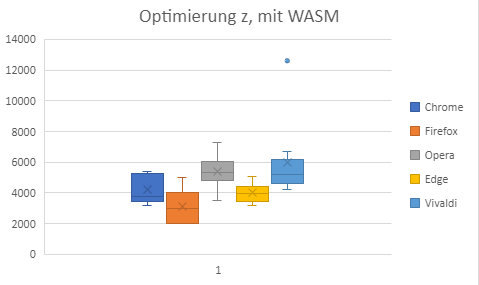
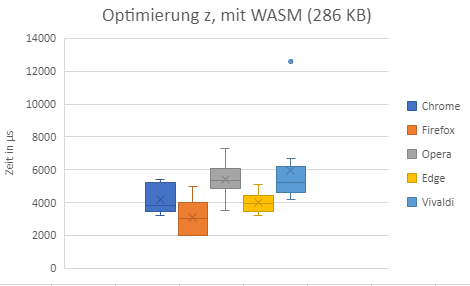
Edited documentation

diff --git a/praktikum/luecking/index.md b/praktikum/luecking/index.md
@@ -48,6 +48,22 @@ werden.
 
 ### Emscipten
 
+Emscripten ist eine komplette Compilertoolchain hin zu WebAssebly. Emscripten verwendet dabei LLVM und 
+setzt den Fokus auf Geschwindigkeit, Groesse und der Webplatform. In C++ programmierter Code kann
+beispielsweise mit Hilfe von Emscripten uebersetzt werden und passende HTML-, JavaScript- und WASM-Dateien
+generiert werden. Emscripten liefert dabei beispielsweise die Moeglichkeit innerhalb vom C++-Code
+JavaScript-Funktionen und -Code zu definieren und aufzurufen.
+
+Emscripten bietet zur Kompilierung verschiedne Optimierungsstufen an. Im Folgenden werden die 
+Optimierungen kurz verdeutlicht.
+
+* O0 - Keine Optimierung (default)
+* O1 - Simple Optimierung. Waehrend des Kompilierens wird die 'O1' von LLVM verwendet. Waehrend des Linkens werden verschiedene JS-Assertions nicht eingeschlossen, welche bei O0 existieren wuerden.
+* O2 - Aehnlich wie 'O1', ermoeglicht aber weitere Optimierungen. Waehrend des Linkens werden ebenfalls verschiedene JavaScript Optimierungen ermoeglicht.
+* O3 - Aehnlich wie 'O3', aber mit zusaetzlichen Optimierungen, welche eventuell laenger zum Ausfuehren benoetigen.
+* Os - Aehnlich wie '03', aber konzentriert sich mehr auf die Codegroesse. Dies kann die Laufzeit beeintraechtigen, sowohl von WASM als auch von JavaScript.
+* Oz - Aehnlich wie 'Os', aber reduziert die Codegroesse noch weiter. Kann jedoch laengere Ausfuehrzeiten haben, sowohl von WASM als auch von JavaScript.
+
 ## Forschungsfragen und Beschreibung Projekt
 
 Im Rahmen der Forschungsarbeit sollen folgende Forschungsfragen beantwortet werden.
@@ -138,34 +154,118 @@ Es wird sich mit dem Websever verbunden und die kompilierte HTML-Datei geoeffnet
 aufgeschrieben und die Seite mehrfach neu geladen. Nachdem alle Browser auf der gleichen Version getestet
 wurden, wird eine neue Version (mit Optimierung) gebaut und alle Browser erneut getestet.
 
+Bei der Zeitmessung sind im Hintergrund die gleichen Programme geoeffnet (Visual Studio Code, Notepad++,
+etc.), um moegliche Zeitabweichungen konstant zu halten. Zusaetzlich ist immer nur der zu messende Browser
+mit einem Tab geoeffnet, um Vergleichbarkeit in den Messergebnissen zu gewaehrleisten.
+
 ## Ergebnisse
 
 Im Folgenden werden die gemessenen Ergebnisse dargestellt und erlaeutert.
 
-![](assets/O0.PNG)
+![Keine Optimierung (O0)](assets/O0.PNG)
 
-![](assets/O1.PNG)
+Bei der Uebersetzung ohne Optimierung laesst sich eindeutig erkennen, dass die gemessene Zeit von
+Firefox am geringsten ist. Dabei muss erwaehnt werden, dass Firefox als einziger Browser nur Zeiten
+mit Millisekunden-Genauigkeit ausgegeben hat. Alle anderen Browser waren bei gleicher Codebasis in 
+der Lage, mindestens in zehntel Millisekunden- bzw. in 100 µs Schritten anzugeben, wie lange die Ausfuerung
+gedauert hat. Chrome ist mit einer relativ konstanten Ausfuehrungsdauer der zweitschnellste Browswer bei
+der Ausfuehrung. Die restlichen drei Browser verhielten sich vergleichsweise schnell, Vivaldi hingegen
+benoetigte bei einer Ausfuehrung ca. 8,5 ms, was als Ausrutscher gewertet wird.
 
-![](assets/O2.PNG)
+![Optimierung O1](assets/O1.PNG)
 
-![](assets/O3.PNG)
+Bei der Version, die mit O1 optimiert wurde, lassen sich Unterschiede in den Ausfuehrungszeiten 
+feststellen. Die Ausfuehrungszeit mit Chrome verbessert sich, wobei die Ausfuehrungszeit mit Firefox
+sich marginal verbessert. Die Ausfuehrzeit mit Opera variiert staerker, bleibt im Durchschnitt gleich.
+Bei Edge verbessert sich der Durchschnitt, die Ausfuehrungszeit weist jedoch eine groessere Varianz auf.
+Die Ausfuehrzeit mit Vivaldi verschlechtert sich bei der ersten Optimierung. Es werden Zeiten von bis zu
+9500 µs erreicht.
 
-![](assets/Os.PNG)
+![Optimierung O2](assets/O2.PNG)
 
-![](assets/Oz.PNG)
+Bei Optimierung O2 vergroessert sich die Varianz bei der Ausfuehrung mit Chrome. Bei den weiteren
+Browsern ist keine starke Verbesserung oder Verschlechterung festzustellen. Firefox fuehrt das gegebene
+Programm weiterhin als schnellster Browser aus.
 
-![](assets/chrome.PNG)
+![Optimierung O3](assets/O3.PNG)
 
-![](assets/firefox.PNG)
+Zwischen Optimierung O3 und O2 ist kein deutlicher Unterschied in der Ausfuehrdauer festzustellen.
+Grundsaetzlich laesst sich sagen, dass alle Browser im Durchschnitt minimal langsamer geworden sind.
+Firefox ist weiterhin der schnellste Browser, gefolgt von Chrome. Vivaldi stellt aus der Auswahl an
+Browsern den Langsamsten in diesem Szenario dar.
 
-![](assets/opera.PNG)
+![Optimierung Os](assets/Os.PNG)
 
-![](assets/edge.PNG)
+Bei der Optimierung Os laesst sich feststellen, dass alle Browser langsamere Ausfuehrzeiten besitzen.
+Die Rangfolge bleibt jedoch gleich.
 
-![](assets/vivaldi.PNG)
+![Optimierung Oz](assets/Oz.PNG)
+
+Die letzte Optimierungsstufe Oz erhoeht bei allen Browsern die Ausfuehrzeit des Progamms. Vivaldi faellt
+am meisten auf mit einem Ausrutscher bei ueber 12 ms.
+
+Im Folgenden werden die Ausfuehrzeiten von jedem Browser abhaengig der Optimierungsstufe dargestellt.
+
+![Vergleich Chrome bezogen auf verschiedene Optimierungen](assets/chrome.PNG)
+
+Bei Chrome ist zu erkennen, dass O1 eine Verbesserung der Laufzeit ermoeglicht. Danach steigt die 
+Ausfuehrungszeit stark an. Die Varianz steigt ebenfalls mit steigender Stufe; die Ausfuehrzeiten schwanken
+stark.
+
+![Vergleich Firefox bezogen auf verschiedene Optimierungen](assets/firefox.PNG)
+
+Firefox bietet bei verschiedenen Optimierungsstufen aehnliche geringe Ausfuehrzeiten. Die fehlende
+Schwankung kann durch die Beschraenkung der Messung erklaert werden. Wie bereits oben erwaehnt, 
+laesst Firefox nur eine Zeitmessung in Millisekunden-Intervallen zu.
+
+![Vergleich Opera bezogen auf verschiedene Optimierungen](assets/opera.PNG)
+
+Bei den Ausfuehrungszeiten von Opera laesst sich feststellen, dass die ersten beiden Optimierungsstufen
+die Ausfuehrzeit verringert. O3 fuerht im Durschschnitt zu einer aehnlichen Ausfuehrzeit. Die beiden
+Optimierungen Os und Oz vergroessern die Zeit erneut.
+
+![Vergleich Edge bezogen auf verschiedene Optimierungen](assets/edge.PNG)
+
+Die Ausfuehrungszeit bei Edge bleibt nach Optimierungen relativ konstant. Man erkennt eine leichte 
+Verbesserung der Zeit bei O1 und O2. Ab O3 verlaengert sich die Ausfuehrungszeit marginal.
+
+![Vergleich Vivaldi bezogen auf verschiedene Optimierungen](assets/vivaldi.PNG)
+
+Die Optimierungen von Emscripten verschlechtern ausschliesslich die Ausfuehrungszeiten bei dem Browser
+Vivaldi. Die Varianz steigt und mehrere Ausreisser sind bei der Ausfuehrungszeit vorhanden. Grundsaetzlich
+ist Vivaldi in diesem Test der langsamste Browser aus der Auswahl.
+
+Zum Schluss werden die Ausfuehrungszeiten gemessen, wenn von Emscripten kein WASM generiert werden soll.
+Emscripten erstellt dann ausschliesslich JavaScript und HTML.
+
+![Ohne WASM](assets/NoWASM.PNG)
+
+Es ist deutlich zu sehen, dass das gleiche Programm, welches nur in Javascript ausgefuert wird, deutlich
+langsamer auf allen Browsern laeuft. Der Browser Chrome ist bei der Ausfuehrunszeit von durchschnittlich
+ueber 32 ms ahnlich langsam wie der Browser Vivaldi. Firefox ist dabei mit Abstand der schnellste der 
+ausgewahlten Browser und benoetigt fuer das Programm ca. 13 ms im Durchschnitt. Firefox' Ausfuehrungszeiten
+sind dabei sehr konstant im Gegensatz zu den anderen Browsern.
+
+Die Optimierungsstufen verringert ebenfalls die Dateigroesse. Das gebaute Projekt ohne Optimierung ist 
+489 KB gross. Die Groesse nimmt mit jeder Optimierungsstufe ab. Bei Oz sind die Dateien insgesamt 289 KB
+gross. Wenn das Projekt komplett ohne WASM kompiliert wird, ist die Dateigroesse um ein Vielfaches auf
+insgesamt 1,84 MB gestiegen.
+
+Grundsaetzlich laesst sich sagen, dass Firefox in jedem Test der schnellste Browser ist. Jedoch laesst 
+Firefox trotz gleichen Programmcode keine genauere Zeitmessung zu als in Millisekunden-Intervallen. Dies
+kann zum Beispiel daran liegen, dass intern bei der Auswertung des WASM eine andere Funktion zum Auslesen
+der aktuellen Zeit verwendet wird. Bei den meisten Browsern fuehren die Optimierungen zu einer Verkuerzung
+der Ausfuerzeit. Wie in der Dokumentation von Emscripten beschrieben, werden ab O3 die Dateigroessen
+optimiert. Dies kann dabei zu einer erhoehten Ausfuehrdauer fuehren. Der Browser Vivaldi hingegen
+wies bei dem optimierten Code keinerlei Zeitersparnisse auf; Im Gegenteil, die Ausfuehrdauer verlaengerte
+sich teils. Der kompilierte Code mit WASM ist schneller als der Code, welcher nach der Kompilierung nur 
+aus JavaScript und HTML besteht.
+
+## Zusammenfassung
 
 
 
+## Selbstreflektion
 
 # Literaturverzeichnis
 
